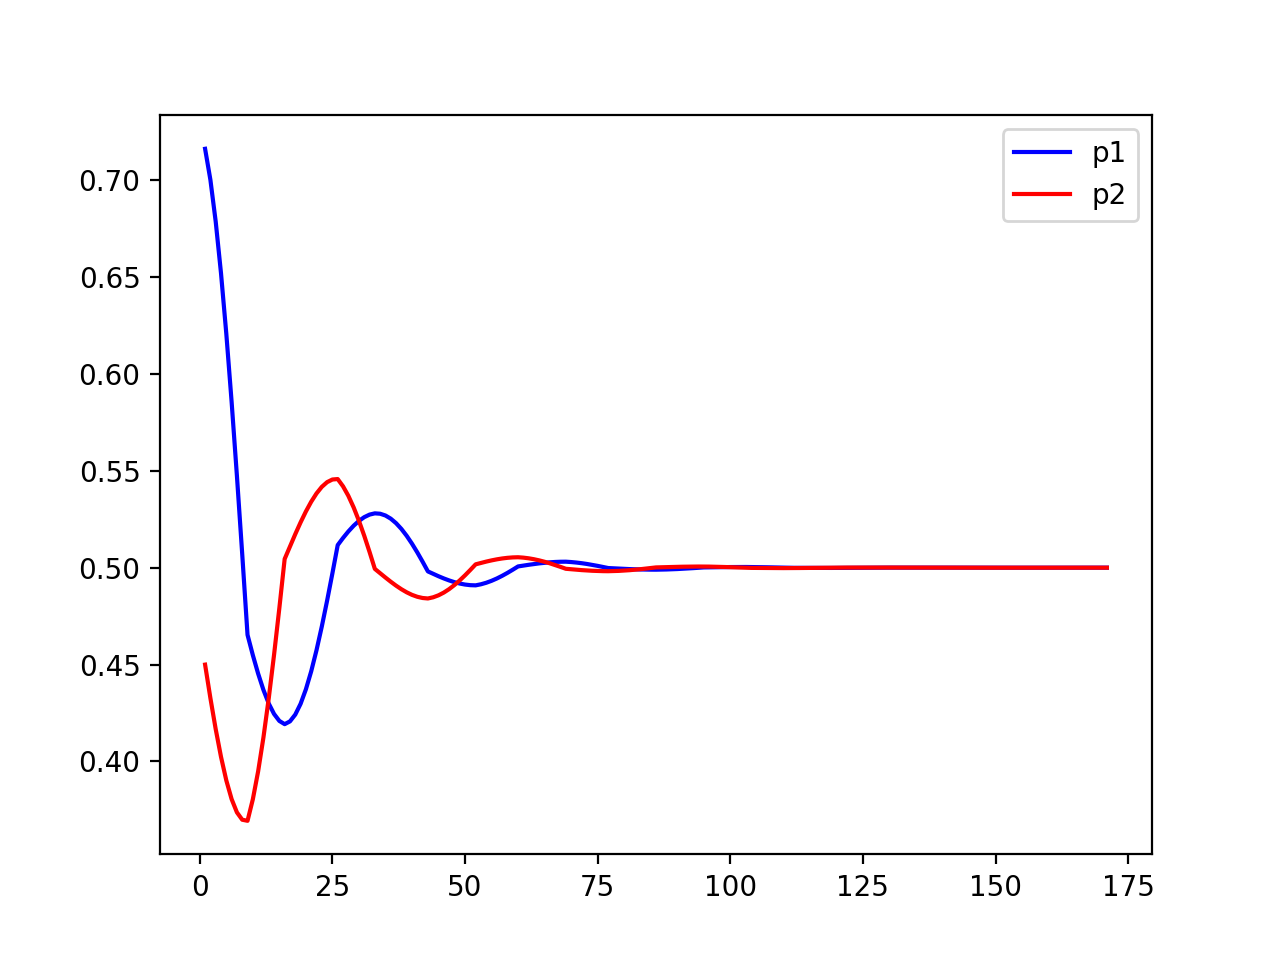
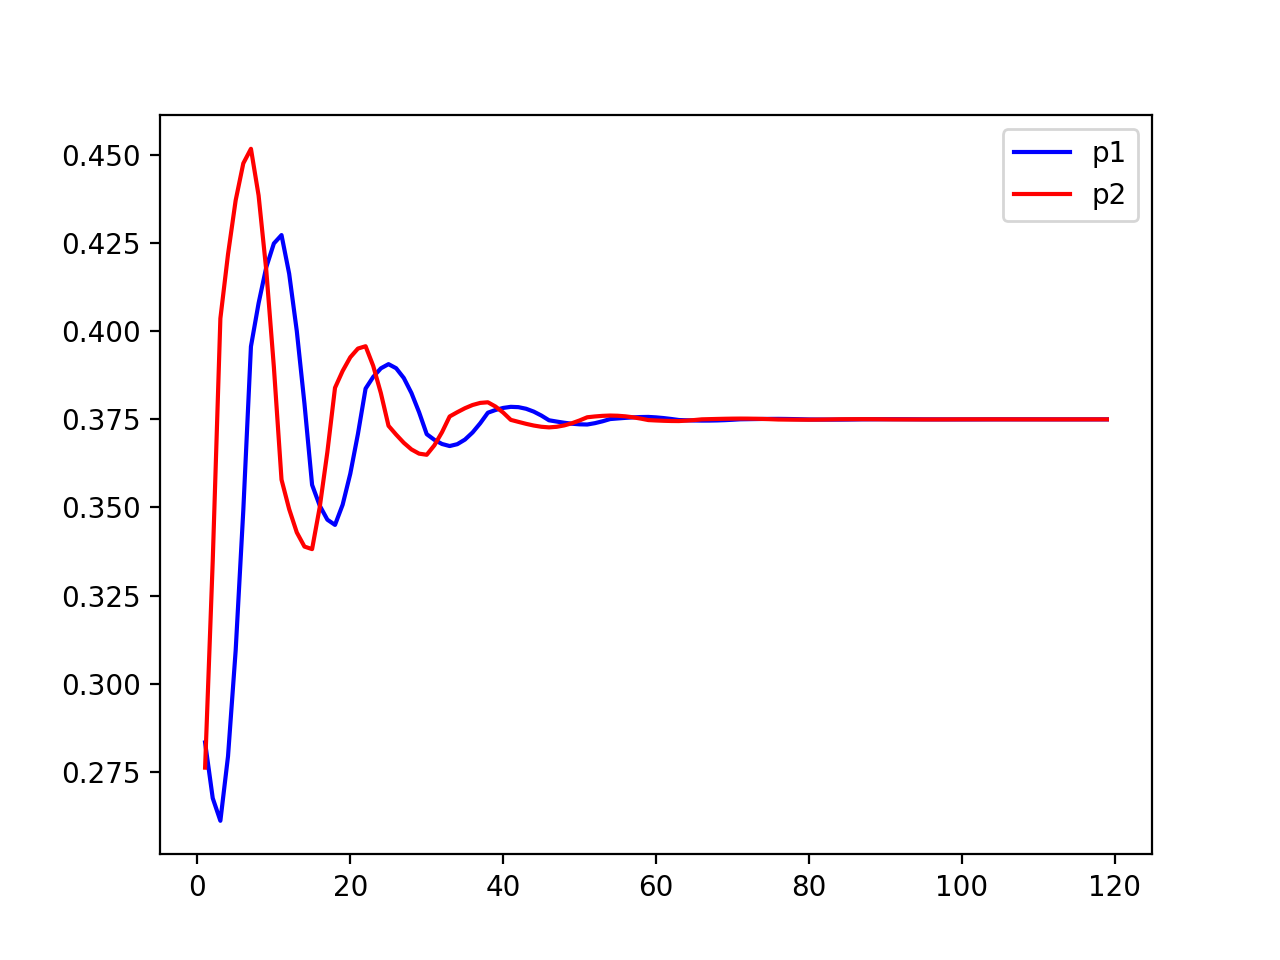
change

diff --git a/WoLF-IGA/main.py b/WoLF-IGA/main.py
@@ -61,30 +61,22 @@ class MatchingPennies:
         self.init_draw()
 
     def init_p1(self):
-        # self.r11 = 3.0
-        # self.r12 = -2.0
-        # self.r21 = -2.0
-        # self.r22 = 1.0
-        self.r11 = 1.0
-        self.r12 = -1.0
-        self.r21 = -1.0
+        self.r11 = 3.0
+        self.r12 = -2.0
+        self.r21 = -2.0
         self.r22 = 1.0
         self.u1 = self.r11 - self.r12 - self.r21 + self.r22
         self.alpha = random.random()
-        self.alpha_best = 0.5
+        self.alpha_best = 3/8
     
     def init_p2(self):
-        # self.c11 = -3.0
-        # self.c12 = 2.0
-        # self.c21 = 2.0
-        # self.c22 = -1.0
-        self.c11 = -1.0
-        self.c12 = 1.0
-        self.c21 = 1.0
+        self.c11 = -3.0
+        self.c12 = 2.0
+        self.c21 = 2.0
         self.c22 = -1.0
         self.u2 = self.c11 - self.c12 - self.c21 + self.c22
         self.beta = random.random()
-        self.beta_best = 0.5
+        self.beta_best = 3/8
     
     def init_draw(self):
         self.x = []
